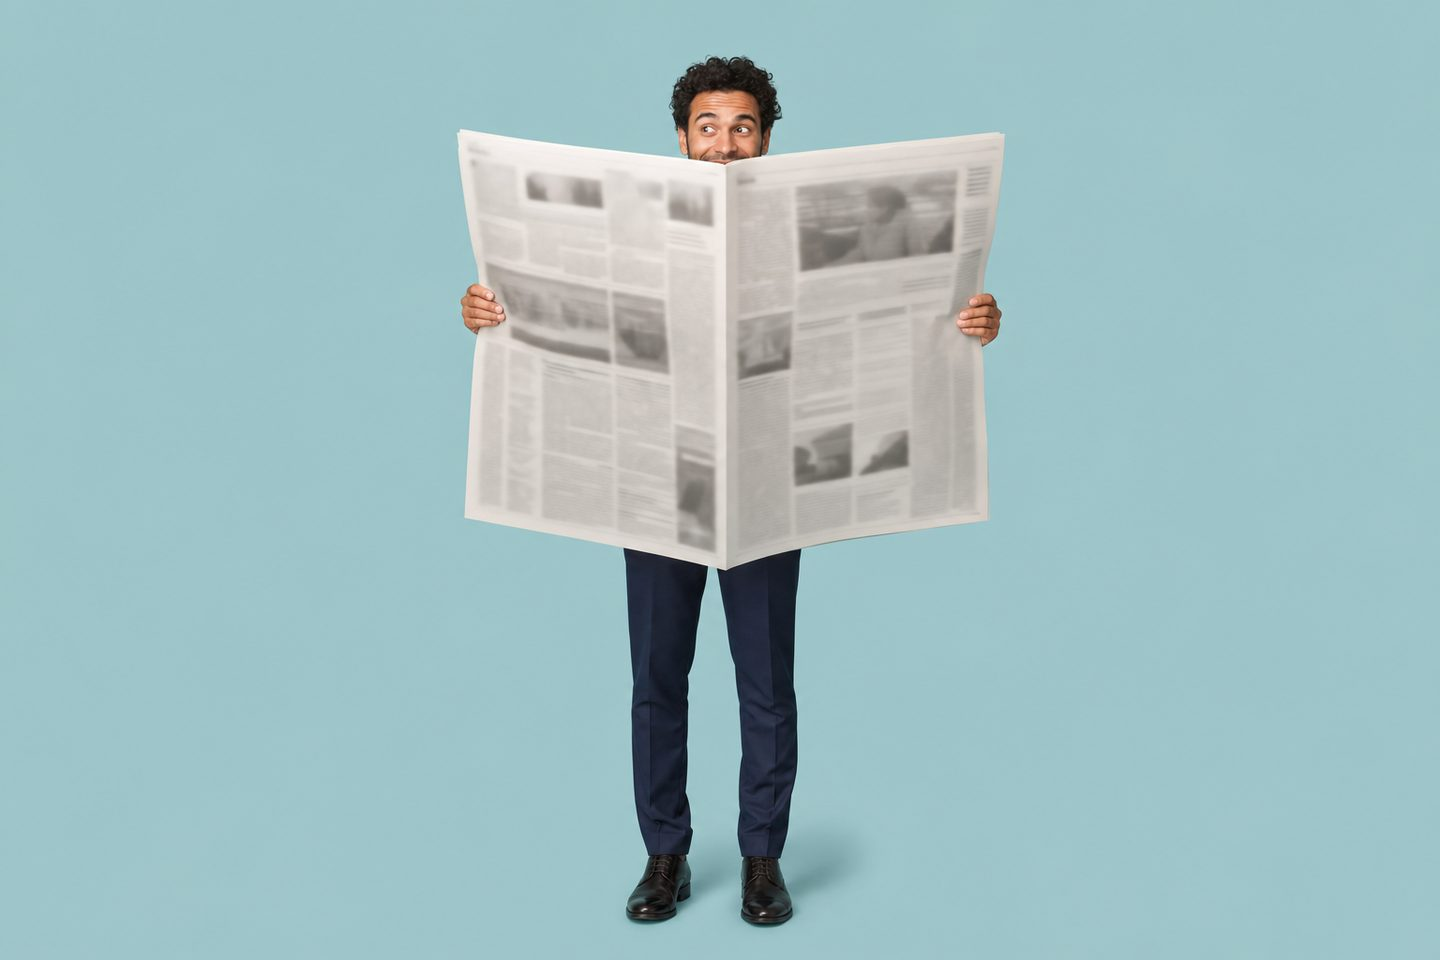
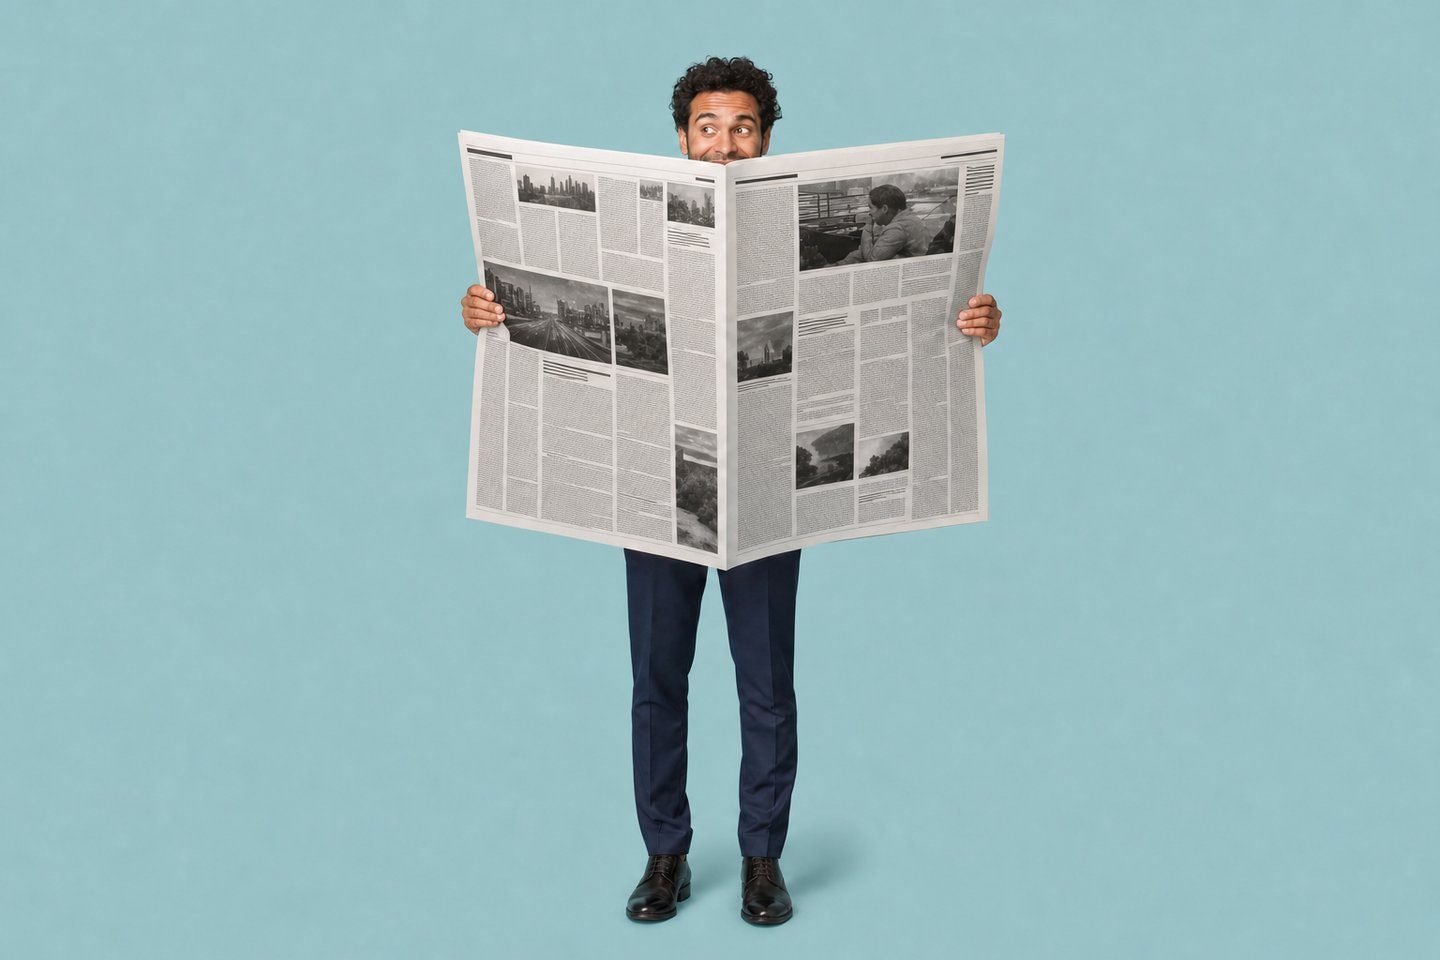
Journal net, photos accueil mieux cadrées, menu mobile défilable
Claude-Session: https://claude.ai/code/session_0155FUiuHG876Qi75hmEvJRt

Changed region(s): [[0.3125, 0.1562, 0.6875, 0.5938]]

diff --git a/actualites.html b/actualites.html
@@ -20,7 +20,7 @@
 <link rel="apple-touch-icon" href="/apple-touch-icon.png">
 <meta property="og:site_name" content="JG Expertise &amp; Audit">
 <link rel="preload" href="fonts/source-sans-3-latin-400-normal.woff2" as="font" type="font/woff2" crossorigin>
-<link rel="stylesheet" href="style.css?v=1793584247">
+<link rel="stylesheet" href="style.css?v=1793584780">
 </head>
 <body>
 
@@ -68,7 +68,7 @@
     <p class="kicker">Actualités</p>
     <h1>Actualités</h1>
     <p>Fiscalité, social, droit des sociétés, audit : les changements récents qui concernent les entreprises, les professions libérales et les associations.</p>
-    <div class="sec-photo pg-photo" role="img" aria-label="Homme en costume derrière un journal géant" style="background-image:url(img/p-actualites.jpg?v=1793571691)"></div>
+    <div class="sec-photo pg-photo" role="img" aria-label="Homme en costume derrière un journal géant" style="background-image:url(img/p-actualites.jpg?v=1793584455)"></div>
   </div>
 </div>
 <section class="bg-g bg-ivory"><div class="wrap"><div class="news"><a class="post" href="facturation-electronique.html"><span class="date"><span class="cat">Actu fiscale</span>Octobre 2026</span><h3>Facturation électronique&nbsp;: les dates à retenir</h3><p>Toutes les entreprises doivent pouvoir recevoir des factures électroniques depuis le 1er septembre 2026. Les PME et les micro-entreprises devront les émettre à partir du 1er septembre 2027.</p><span class="more">Lire l'article →</span></a><a class="post" href="revenu-brut-social.html"><span class="date"><span class="cat">Actu sociale</span>Octobre 2026</span><h3>Indépendants&nbsp;: une nouvelle base pour vos cotisations</h3><p>Depuis la déclaration des revenus 2025, les cotisations sociales des travailleurs indépendants sont calculées sur le revenu brut social. Ce qui change.</p><span class="more">Lire l'article →</span></a><a class="post" href="prime-carburant-2026.html"><span class="date"><span class="cat">Actu sociale</span>Octobre 2026</span><h3>Prime carburant&nbsp;: jusqu'à 1&nbsp;000&nbsp;€ exonérés de cotisations jusqu'à fin 2026</h3><p>Le plafond d'exonération sociale des aides aux frais de transport est porté à 1&nbsp;000&nbsp;€ pour les sommes versées jusqu'au 31 décembre 2026. Côté impôt, le relèvement n'est pas encore voté.</p><span class="more">Lire l'article →</span></a><a class="post" href="nouveau-code-ape-2027.html"><span class="date"><span class="cat">Actu juridique</span>Octobre 2026</span><h3>Nouveau code APE au 1er janvier 2027&nbsp;: ce qu'il faut vérifier</h3><p>Toutes les entreprises changent de code APE au 1er janvier 2027. Le futur code est déjà consultable et peut être corrigé.</p><span class="more">Lire l'article →</span></a></div></div></section>

diff --git a/index.html b/index.html
@@ -26,7 +26,7 @@
 </script>
 <meta property="og:site_name" content="JG Expertise &amp; Audit">
 <link rel="preload" href="fonts/source-sans-3-latin-400-normal.woff2" as="font" type="font/woff2" crossorigin>
-<link rel="stylesheet" href="style.css?v=1793584247">
+<link rel="stylesheet" href="style.css?v=1793584780">
 </head>
 <body>
 
@@ -181,7 +181,7 @@
   <div class="wrap">
     <p class="kicker">Actualités</p>
     <h2 class="sec-title" style="margin-bottom:36px">Les dernières actualités</h2>
-    <div class="sec-photo" role="img" aria-label="Homme en costume derrière un journal géant" style="background-image:url(img/p-actualites.jpg);background-position:center 8%"></div>
+    <div class="sec-photo" role="img" aria-label="Homme en costume derrière un journal géant" style="background-image:url(img/p-actualites.jpg?v=1793584455);background-position:center 8%"></div>
     <div class="news"><a class="post" href="facturation-electronique.html"><span class="date"><span class="cat">Actu fiscale</span>Octobre 2026</span><h3>Facturation électronique&nbsp;: les dates à retenir</h3><p>Toutes les entreprises doivent pouvoir recevoir des factures électroniques depuis le 1er septembre 2026. Les PME et les micro-entreprises devront les émettre à partir du 1er septembre 2027.</p><span class="more">Lire l'article →</span></a><a class="post" href="revenu-brut-social.html"><span class="date"><span class="cat">Actu sociale</span>Octobre 2026</span><h3>Indépendants&nbsp;: une nouvelle base pour vos cotisations</h3><p>Depuis la déclaration des revenus 2025, les cotisations sociales des travailleurs indépendants sont calculées sur le revenu brut social. Ce qui change.</p><span class="more">Lire l'article →</span></a><a class="post" href="prime-carburant-2026.html"><span class="date"><span class="cat">Actu sociale</span>Octobre 2026</span><h3>Prime carburant&nbsp;: jusqu'à 1&nbsp;000&nbsp;€ exonérés de cotisations jusqu'à fin 2026</h3><p>Le plafond d'exonération sociale des aides aux frais de transport est porté à 1&nbsp;000&nbsp;€ pour les sommes versées jusqu'au 31 décembre 2026. Côté impôt, le relèvement n'est pas encore voté.</p><span class="more">Lire l'article →</span></a><a class="post" href="nouveau-code-ape-2027.html"><span class="date"><span class="cat">Actu juridique</span>Octobre 2026</span><h3>Nouveau code APE au 1er janvier 2027&nbsp;: ce qu'il faut vérifier</h3><p>Toutes les entreprises changent de code APE au 1er janvier 2027. Le futur code est déjà consultable et peut être corrigé.</p><span class="more">Lire l'article →</span></a></div>
     <p style="margin:34px 0 0"><a class="more" href="actualites.html">Toutes les actualités →</a></p>
   </div>

diff --git a/seuils-commissaire-aux-comptes.html b/seuils-commissaire-aux-comptes.html
@@ -20,7 +20,7 @@
 <link rel="apple-touch-icon" href="/apple-touch-icon.png">
 <meta property="og:site_name" content="JG Expertise &amp; Audit">
 <link rel="preload" href="fonts/source-sans-3-latin-400-normal.woff2" as="font" type="font/woff2" crossorigin>
-<link rel="stylesheet" href="style.css?v=1793584247">
+<link rel="stylesheet" href="style.css?v=1793584780">
 </head>
 <body>
 
@@ -67,7 +67,7 @@
     <a class="back" href="audit-legal.html">← Audit légal</a>
     <h1>Commissaire aux comptes : les seuils de désignation</h1>
     <p class="chapo">Les seuils pour une société seule, ceux qui s'appliquent dans un groupe, les cas où la nomination reste obligatoire et le moment où l'obligation prend fin.</p>
-    <div class="sec-photo pg-photo" role="img" aria-label="Pile de pièces qui dépasse une barre de saut en hauteur" style="background-image:url(img/p-seuils-commissaire-aux-comptes.jpg)"></div>
+    <div class="sec-photo pg-photo" role="img" aria-label="Pile de pièces qui dépasse une barre de saut en hauteur" style="background-image:url(img/p-seuils-commissaire-aux-comptes.jpg?v=1793584455)"></div>
 
     <p>Les sociétés commerciales (SA, SAS, SARL, SNC…), y compris les sociétés d'exercice libéral, doivent nommer un commissaire aux comptes lorsqu'elles dépassent, à la clôture d'un exercice, deux des trois seuils suivants. Ces seuils s'appliquent aux exercices ouverts depuis le 1er janvier 2024.</p>
 

diff --git a/facturation-electronique.html b/facturation-electronique.html
@@ -20,7 +20,7 @@
 <link rel="apple-touch-icon" href="/apple-touch-icon.png">
 <meta property="og:site_name" content="JG Expertise &amp; Audit">
 <link rel="preload" href="fonts/source-sans-3-latin-400-normal.woff2" as="font" type="font/woff2" crossorigin>
-<link rel="stylesheet" href="style.css?v=1793584247">
+<link rel="stylesheet" href="style.css?v=1793584780">
 </head>
 <body>
 
@@ -68,7 +68,7 @@
     <p class="kicker">Actualités</p>
     <h1>Facturation électronique</h1>
     <p>Depuis le 1er septembre 2026, toutes les entreprises doivent pouvoir recevoir des factures électroniques. L'émission devient obligatoire selon un calendrier qui dépend de la taille de l'entreprise. Le cabinet vous aide à choisir votre solution et à la mettre en place.</p>
-    <div class="sec-photo pg-photo" role="img" aria-label="Une facture papier qui part en pixels vers un ordinateur" style="background-image:url(img/p-facturation-electronique.jpg?v=1793571691)"></div>
+    <div class="sec-photo pg-photo" role="img" aria-label="Une facture papier qui part en pixels vers un ordinateur" style="background-image:url(img/p-facturation-electronique.jpg?v=1793584455)"></div>
   </div>
 </div><div class="art-suite">
   <div class="wrap intro-cols">

diff --git a/comptabilite-fiscalite.html b/comptabilite-fiscalite.html
@@ -20,7 +20,7 @@
 <link rel="apple-touch-icon" href="/apple-touch-icon.png">
 <meta property="og:site_name" content="JG Expertise &amp; Audit">
 <link rel="preload" href="fonts/source-sans-3-latin-400-normal.woff2" as="font" type="font/woff2" crossorigin>
-<link rel="stylesheet" href="style.css?v=1793584247">
+<link rel="stylesheet" href="style.css?v=1793584780">
 </head>
 <body>
 
@@ -68,7 +68,7 @@
     <p class="kicker">Expertise comptable</p>
     <h1>Comptabilité et fiscalité</h1>
     <p>Tenue et révision de votre comptabilité, comptes annuels, déclarations fiscales de l'entreprise et de son dirigeant. Le cabinet s'occupe de vos obligations toute l'année et vous explique vos chiffres.</p>
-    <div class="sec-photo pg-photo" role="img" aria-label="Cheffe d'entreprise qui lit ses comptes" style="background-image:url(img/p-comptabilite-fiscalite.jpg?v=1793571691)"></div>
+    <div class="sec-photo pg-photo" role="img" aria-label="Cheffe d'entreprise qui lit ses comptes" style="background-image:url(img/p-comptabilite-fiscalite.jpg?v=1793584455)"></div>
   </div>
 </div>
 <section class="bg-g mission">

diff --git a/audit-contractuel.html b/audit-contractuel.html
@@ -20,7 +20,7 @@
 <link rel="apple-touch-icon" href="/apple-touch-icon.png">
 <meta property="og:site_name" content="JG Expertise &amp; Audit">
 <link rel="preload" href="fonts/source-sans-3-latin-400-normal.woff2" as="font" type="font/woff2" crossorigin>
-<link rel="stylesheet" href="style.css?v=1793584247">
+<link rel="stylesheet" href="style.css?v=1793584780">
 </head>
 <body>
 
@@ -68,7 +68,7 @@
     <p class="kicker">Audit</p>
     <h1>Audit contractuel</h1>
     <p>Un dirigeant, des associés, un repreneur ou une banque peuvent avoir besoin d'un regard extérieur sur des comptes, une organisation ou une opération. Le périmètre est fixé avec vous, selon ce que vous voulez vérifier.</p>
-    <div class="sec-photo pg-photo" role="img" aria-label="Homme sur un escabeau avec des jumelles" style="background-image:url(img/p-audit-contractuel.jpg?v=1793571691)"></div>
+    <div class="sec-photo pg-photo" role="img" aria-label="Homme sur un escabeau avec des jumelles" style="background-image:url(img/p-audit-contractuel.jpg?v=1793584455)"></div>
   </div>
 </div>
 <section class="bg-g mission">

diff --git a/pilotage-financement.html b/pilotage-financement.html
@@ -20,7 +20,7 @@
 <link rel="apple-touch-icon" href="/apple-touch-icon.png">
 <meta property="og:site_name" content="JG Expertise &amp; Audit">
 <link rel="preload" href="fonts/source-sans-3-latin-400-normal.woff2" as="font" type="font/woff2" crossorigin>
-<link rel="stylesheet" href="style.css?v=1793584247">
+<link rel="stylesheet" href="style.css?v=1793584780">
 </head>
 <body>
 
@@ -68,7 +68,7 @@
     <p class="kicker">Expertise comptable</p>
     <h1>Pilotage et financement</h1>
     <p>Un projet de création, d'investissement ou d'embauche se prépare chiffres en main. Le cabinet construit vos prévisionnels, suit votre activité en cours d'année et prépare vos demandes de financement.</p>
-    <div class="sec-photo pg-photo" role="img" aria-label="Boussole au cadran en pièce d'or" style="background-image:url(img/p-pilotage-financement.jpg?v=1793571691)"></div>
+    <div class="sec-photo pg-photo" role="img" aria-label="Boussole au cadran en pièce d'or" style="background-image:url(img/p-pilotage-financement.jpg?v=1793584455)"></div>
   </div>
 </div>
 <section class="bg-g mission">

diff --git a/creer-une-holding.html b/creer-une-holding.html
@@ -20,7 +20,7 @@
 <link rel="apple-touch-icon" href="/apple-touch-icon.png">
 <meta property="og:site_name" content="JG Expertise &amp; Audit">
 <link rel="preload" href="fonts/source-sans-3-latin-400-normal.woff2" as="font" type="font/woff2" crossorigin>
-<link rel="stylesheet" href="style.css?v=1793584247">
+<link rel="stylesheet" href="style.css?v=1793584780">
 </head>
 <body>
 
@@ -68,7 +68,7 @@
     <p class="kicker">Expertise comptable</p>
     <h1>Créer une holding</h1>
     <p>Une holding détient les parts de vos sociétés. Elle sert à racheter une entreprise, à réinvestir vos bénéfices ou à préparer la transmission.</p>
-    <div class="sec-photo pg-photo" role="img" aria-label="Homme en costume qui porte trois petits immeubles sur un plateau" style="background-image:url(img/p-creer-une-holding.jpg?v=1793571691)"></div>
+    <div class="sec-photo pg-photo" role="img" aria-label="Homme en costume qui porte trois petits immeubles sur un plateau" style="background-image:url(img/p-creer-une-holding.jpg?v=1793584455)"></div>
   </div>
 </div>
 <section class="bg-g mission">

diff --git a/audit-legal.html b/audit-legal.html
@@ -20,7 +20,7 @@
 <link rel="apple-touch-icon" href="/apple-touch-icon.png">
 <meta property="og:site_name" content="JG Expertise &amp; Audit">
 <link rel="preload" href="fonts/source-sans-3-latin-400-normal.woff2" as="font" type="font/woff2" crossorigin>
-<link rel="stylesheet" href="style.css?v=1793584247">
+<link rel="stylesheet" href="style.css?v=1793584780">
 </head>
 <body>
 
@@ -68,7 +68,7 @@
     <p class="kicker">Audit</p>
     <h1>Audit légal</h1>
     <p>La loi ou les statuts imposent un commissaire aux comptes au-delà de certains seuils, pour certaines associations et lors de certaines opérations sur le capital. Je certifie vos comptes et j'interviens sur ces opérations en toute indépendance.</p>
-    <div class="sec-photo pg-photo" role="img" aria-label="Cachet de cire sur un document" style="background-image:url(img/p-audit-legal.jpg?v=1793571691)"></div>
+    <div class="sec-photo pg-photo" role="img" aria-label="Cachet de cire sur un document" style="background-image:url(img/p-audit-legal.jpg?v=1793584455)"></div>
   </div>
 </div>
 <section class="bg-g mission">

diff --git a/remuneration-patrimoine.html b/remuneration-patrimoine.html
@@ -20,7 +20,7 @@
 <link rel="apple-touch-icon" href="/apple-touch-icon.png">
 <meta property="og:site_name" content="JG Expertise &amp; Audit">
 <link rel="preload" href="fonts/source-sans-3-latin-400-normal.woff2" as="font" type="font/woff2" crossorigin>
-<link rel="stylesheet" href="style.css?v=1793584247">
+<link rel="stylesheet" href="style.css?v=1793584780">
 </head>
 <body>
 
@@ -68,7 +68,7 @@
     <p class="kicker">Expertise comptable</p>
     <h1>Rémunération du dirigeant</h1>
     <p>Salaire ou dividendes, retraite, protection en cas d'arrêt : ce que vous vous versez se décide chiffres en main.</p>
-    <div class="sec-photo pg-photo" role="img" aria-label="Dirigeant souriant sur une terrasse" style="background-image:url(img/p-remuneration-patrimoine.jpg?v=1793571691)"></div>
+    <div class="sec-photo pg-photo" role="img" aria-label="Dirigeant souriant sur une terrasse" style="background-image:url(img/p-remuneration-patrimoine.jpg?v=1793584455)"></div>
   </div>
 </div>
 <section class="bg-g mission">

diff --git a/transmission-cession.html b/transmission-cession.html
@@ -20,7 +20,7 @@
 <link rel="apple-touch-icon" href="/apple-touch-icon.png">
 <meta property="og:site_name" content="JG Expertise &amp; Audit">
 <link rel="preload" href="fonts/source-sans-3-latin-400-normal.woff2" as="font" type="font/woff2" crossorigin>
-<link rel="stylesheet" href="style.css?v=1793584247">
+<link rel="stylesheet" href="style.css?v=1793584780">
 </head>
 <body>
 
@@ -68,7 +68,7 @@
     <p class="kicker">Expertise comptable</p>
     <h1>Transmission et cession</h1>
     <p>Vendre votre entreprise, la donner à vos enfants ou préparer votre départ à la retraite.</p>
-    <div class="sec-photo pg-photo" role="img" aria-label="Un père et sa fille dans le magasin familial" style="background-image:url(img/p-transmission-cession.jpg?v=1793571691)"></div>
+    <div class="sec-photo pg-photo" role="img" aria-label="Un père et sa fille dans le magasin familial" style="background-image:url(img/p-transmission-cession.jpg?v=1793584455)"></div>
   </div>
 </div>
 <section class="bg-g mission">

diff --git a/sante-retraite-prevoyance.html b/sante-retraite-prevoyance.html
@@ -20,7 +20,7 @@
 <link rel="apple-touch-icon" href="/apple-touch-icon.png">
 <meta property="og:site_name" content="JG Expertise &amp; Audit">
 <link rel="preload" href="fonts/source-sans-3-latin-400-normal.woff2" as="font" type="font/woff2" crossorigin>
-<link rel="stylesheet" href="style.css?v=1793584247">
+<link rel="stylesheet" href="style.css?v=1793584780">
 </head>
 <body>
 
@@ -68,7 +68,7 @@
     <p class="kicker">Professions de santé</p>
     <h1>Retraite et prévoyance</h1>
     <p>Ce que vous toucherez à la retraite et ce qui se passe en cas d'arrêt de travail.</p>
-    <div class="sec-photo pg-photo" role="img" aria-label="Sablier rempli de pièces et parapluie" style="background-image:url(img/p-sante-retraite-prevoyance.jpg?v=1793571691)"></div>
+    <div class="sec-photo pg-photo" role="img" aria-label="Sablier rempli de pièces et parapluie" style="background-image:url(img/p-sante-retraite-prevoyance.jpg?v=1793584455)"></div>
   </div>
 </div>
 <section class="bg-g mission">
